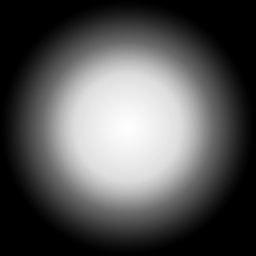
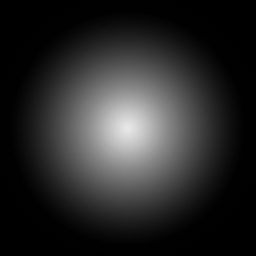
Improve GL1x/GL2x dynlights and camglowlight
Improve GL1x/GL2x dynlights and camglowlight:
- make the dynamic light shape to falloff smoother;
- remove radius shrinking if light is attenuated;
- in camglow script the 2nd light color multiplier now only affects the 2nd light itself;
- camglow now reads CVAR "r_visibility", determines how far camera glow lights up the surfaces;

diff --git a/src/gl/compatibility/gl_20.cpp b/src/gl/compatibility/gl_20.cpp
@@ -407,10 +407,10 @@ bool gl_SetupLightWall(int group, Plane & p, FDynamicLight * light, FVector3 & n
 	float dist = fabsf(p.DistToPoint(lpos.X, lpos.Z, lpos.Y));
 	float radius = light->GetRadius();
 
-	if (gl.legacyMode && (light->IsAttenuated()))
-	{
-		radius *= 0.66f;
-	}
+	//if (gl.legacyMode && (light->IsAttenuated()))
+	//{
+	//	radius *= 0.66f;
+	//}
 
 	if (radius <= 0.f) return false;
 	if (dist > radius) return false;
@@ -431,6 +431,7 @@ bool gl_SetupLightWall(int group, Plane & p, FDynamicLight * light, FVector3 & n
 
 	pos = { (float)lpos.X, (float)lpos.Z, (float)lpos.Y };
 	fn = p.Normal();
+
 	fn.GetRightUp(right, up);
 
 	FVector3 tmpVec = fn * dist;
@@ -493,10 +494,10 @@ bool gl_SetupLightFlat(int group, Plane & p, FDynamicLight * light, FVector3 & n
 	float dist = fabsf(p.DistToPoint(lpos.X, lpos.Z, lpos.Y));
 	float radius = light->GetRadius();
 
-	if (gl.legacyMode && (light->IsAttenuated()))
-	{
-		radius *= 0.66f;
-	}
+	//if (gl.legacyMode && (light->IsAttenuated()))
+	//{
+	//	radius *= 0.66f;
+	//}
 
 	if (radius <= 0.f) return false;
 	if (dist > radius) return false;
@@ -664,9 +665,11 @@ bool GLWall::PutWallCompat(int passflag)
 	{ { GLLDL_WALLS_PLAIN, GLLDL_WALLS_FOG },{ GLLDL_WALLS_MASKED, GLLDL_WALLS_FOGMASKED } };
 
 	// are lights possible?
-	if (mDrawer->FixedColormap != CM_DEFAULT || !gl_lights || seg->sidedef == nullptr || type == RENDERWALL_M2SNF || !gltexture) return false;
+	if (mDrawer->FixedColormap != CM_DEFAULT || !gl_lights || seg->sidedef == nullptr || type == RENDERWALL_M2SNF || !gltexture) return false; // no foggy midtxt?
 
-	// multipassing these is problematic.
+	//if (mDrawer->FixedColormap != CM_DEFAULT || !gl_lights || seg->sidedef == nullptr || !gltexture) return false;
+
+	// multipassing these is problematic
 	if ((flags&GLWF_SKYHACK && type == RENDERWALL_M2S)) return false;
 
 	// Check if this wall has any lights affecting it
